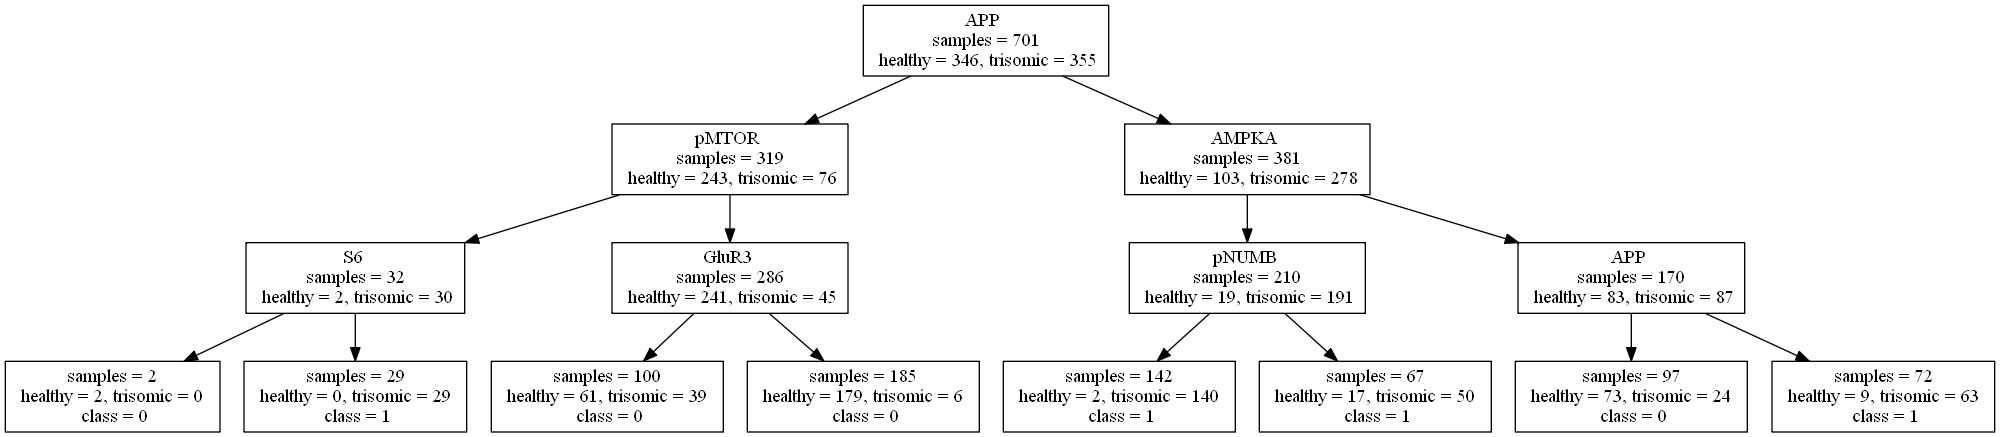
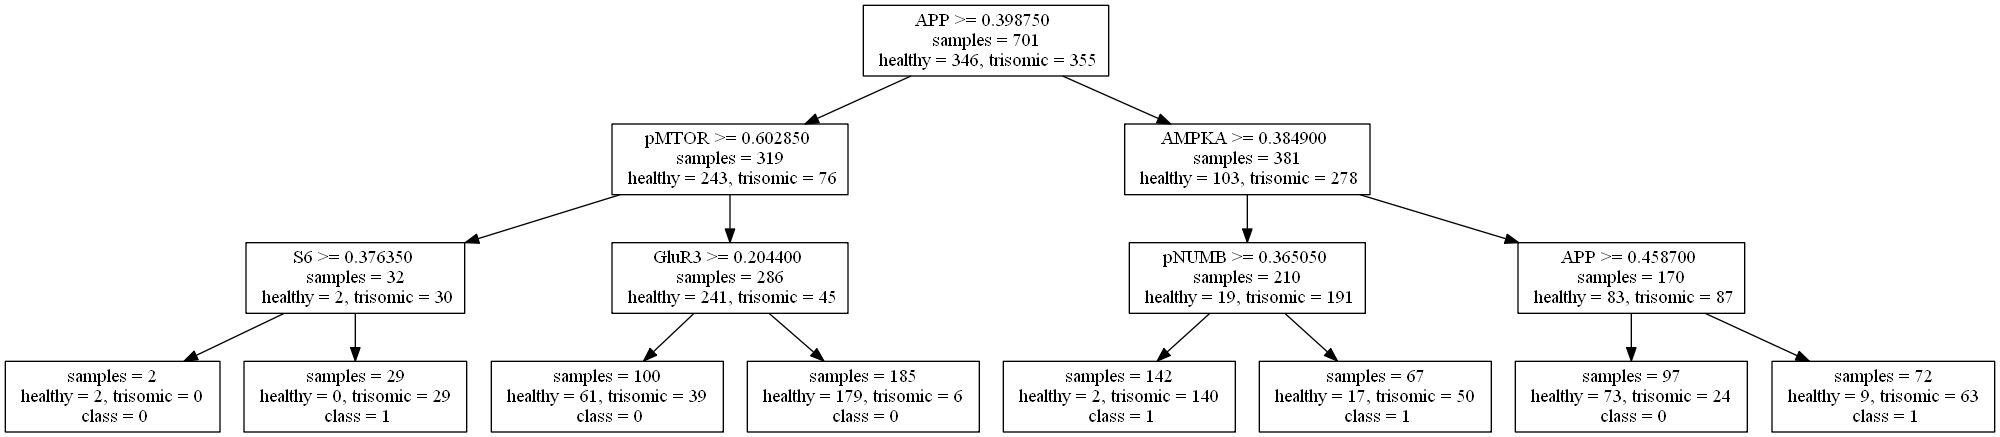
Tidying up

diff --git a/TDIDT.py b/TDIDT.py
@@ -166,13 +166,13 @@ def traversal(current, position, tree_dot):
     if current['gene'] == 'leaf':
         tree_dot.attr('node', shape='box')
         name = position + str(random.choice(string.ascii_lowercase + string.digits))
-        tree_dot.node(name, ''' samples = %(samples)d \n healthy = %(healthy)d, trisomic = %(trisomic)d \n class = %(class)d''' % {'samples': current['data samples'],'healthy':current['value'][0], 'trisomic': current['value'][1], 'class':current['label']})
+        tree_dot.node(name, ''' samples = %(samples)d \n healthy = %(healthy)d, trisomic = %(trisomic)d \n class = %(class)d''' % {'samples': current['data samples'], 'healthy':current['value'][0], 'trisomic': current['value'][1], 'class':current['label']})
         tree_dot.edge(position, name)
     
     else:
         tree_dot.attr('node', shape='box')
         name = current['gene'] + '_' + str(current['data samples'])
-        tree_dot.node(name = name, label = '''%(property_name)s \n samples = %(samples)d \n healthy = %(healthy)d, trisomic = %(trisomic)d''' % {'property_name': current['gene'],'samples':current['data samples'],'healthy':current['value'][0], 'trisomic': current['value'][1]})
+        tree_dot.node(name = name, label = '''%(property_name)s >= %(dec)f \n samples = %(samples)d \n healthy = %(healthy)d, trisomic = %(trisomic)d''' % {'property_name': current['gene'], 'dec': current['decision'], 'samples':current['data samples'],'healthy':current['value'][0], 'trisomic': current['value'][1]})
         
         if position != 'root':
             tree_dot.edge(position, name)

diff --git a/TDIDT4a.py b/TDIDT4a.py
@@ -171,13 +171,13 @@ def traversal(current, position, tree_dot):
     if current['gene'] == 'leaf':
         tree_dot.attr('node', shape='box')
         name = position + str(random.choice(string.ascii_lowercase + string.digits))
-        tree_dot.node(name, ''' samples = %(samples)d \n healthy = %(healthy)d, trisomic = %(trisomic)d \n class = %(class)d''' % {'samples': current['data samples'],'healthy':current['value'][0], 'trisomic': current['value'][1], 'class':current['label']})
+        tree_dot.node(name, ''' samples = %(samples)d \n healthy = %(healthy)d, trisomic = %(trisomic)d \n class = %(class)d''' % {'samples': current['data samples'], 'healthy':current['value'][0], 'trisomic': current['value'][1], 'class':current['label']})
         tree_dot.edge(position, name)
     
     else:
         tree_dot.attr('node', shape='box')
         name = current['gene'] + '_' + str(current['data samples'])
-        tree_dot.node(name = name, label = '''%(property_name)s \n samples = %(samples)d \n healthy = %(healthy)d, trisomic = %(trisomic)d''' % {'property_name': current['gene'],'samples':current['data samples'],'healthy':current['value'][0], 'trisomic': current['value'][1]})
+        tree_dot.node(name = name, label = '''%(property_name)s >= %(dec)f \n samples = %(samples)d \n healthy = %(healthy)d, trisomic = %(trisomic)d''' % {'property_name': current['gene'], 'dec': current['decision'], 'samples':current['data samples'],'healthy':current['value'][0], 'trisomic': current['value'][1]})
         
         if position != 'root':
             tree_dot.edge(position, name)

diff --git a/TDIDT4b.py b/TDIDT4b.py
@@ -174,13 +174,13 @@ def traversal(current, position, tree_dot):
     if current['gene'] == 'leaf':
         tree_dot.attr('node', shape='box')
         name = position + str(random.choice(string.ascii_lowercase + string.digits))
-        tree_dot.node(name, ''' samples = %(samples)d \n healthy = %(healthy)d, trisomic = %(trisomic)d \n class = %(class)d''' % {'samples': current['data samples'],'healthy':current['value'][0], 'trisomic': current['value'][1], 'class':current['label']})
+        tree_dot.node(name, ''' samples = %(samples)d \n healthy = %(healthy)d, trisomic = %(trisomic)d \n class = %(class)d''' % {'samples': current['data samples'], 'healthy':current['value'][0], 'trisomic': current['value'][1], 'class':current['label']})
         tree_dot.edge(position, name)
     
     else:
         tree_dot.attr('node', shape='box')
         name = current['gene'] + '_' + str(current['data samples'])
-        tree_dot.node(name = name, label = '''%(property_name)s \n samples = %(samples)d \n healthy = %(healthy)d, trisomic = %(trisomic)d''' % {'property_name': current['gene'],'samples':current['data samples'],'healthy':current['value'][0], 'trisomic': current['value'][1]})
+        tree_dot.node(name = name, label = '''%(property_name)s >= %(dec)f \n samples = %(samples)d \n healthy = %(healthy)d, trisomic = %(trisomic)d''' % {'property_name': current['gene'], 'dec': current['decision'], 'samples':current['data samples'],'healthy':current['value'][0], 'trisomic': current['value'][1]})
         
         if position != 'root':
             tree_dot.edge(position, name)

diff --git a/TDIDT4c.py b/TDIDT4c.py
@@ -175,13 +175,13 @@ def traversal(current, position, tree_dot):
     if current['gene'] == 'leaf':
         tree_dot.attr('node', shape='box')
         name = position + str(random.choice(string.ascii_lowercase + string.digits))
-        tree_dot.node(name, ''' samples = %(samples)d \n healthy = %(healthy)d, trisomic = %(trisomic)d \n class = %(class)d''' % {'samples': current['data samples'],'healthy':current['value'][0], 'trisomic': current['value'][1], 'class':current['label']})
+        tree_dot.node(name, ''' samples = %(samples)d \n healthy = %(healthy)d, trisomic = %(trisomic)d \n class = %(class)d''' % {'samples': current['data samples'], 'healthy':current['value'][0], 'trisomic': current['value'][1], 'class':current['label']})
         tree_dot.edge(position, name)
     
     else:
         tree_dot.attr('node', shape='box')
         name = current['gene'] + '_' + str(current['data samples'])
-        tree_dot.node(name = name, label = '''%(property_name)s \n samples = %(samples)d \n healthy = %(healthy)d, trisomic = %(trisomic)d''' % {'property_name': current['gene'],'samples':current['data samples'],'healthy':current['value'][0], 'trisomic': current['value'][1]})
+        tree_dot.node(name = name, label = '''%(property_name)s >= %(dec)f \n samples = %(samples)d \n healthy = %(healthy)d, trisomic = %(trisomic)d''' % {'property_name': current['gene'], 'dec': current['decision'], 'samples':current['data samples'],'healthy':current['value'][0], 'trisomic': current['value'][1]})
         
         if position != 'root':
             tree_dot.edge(position, name)
